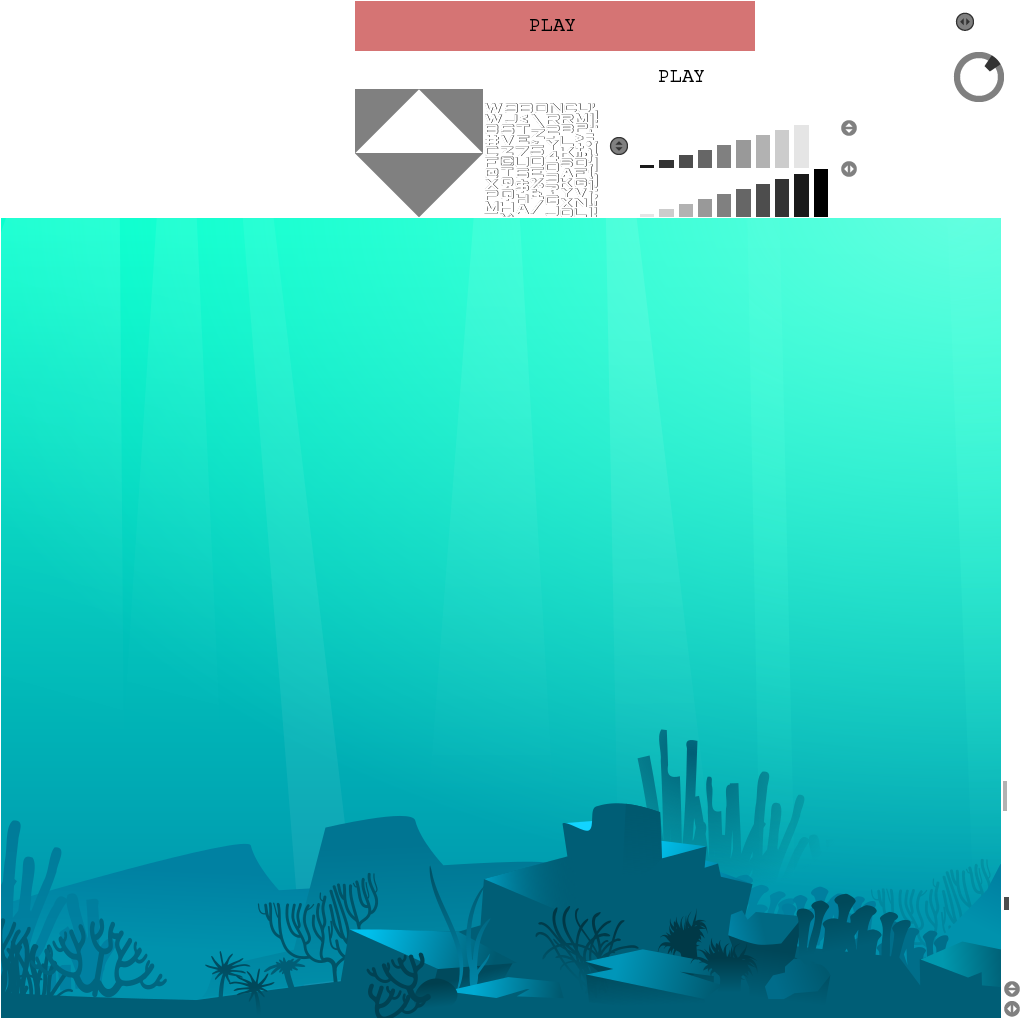
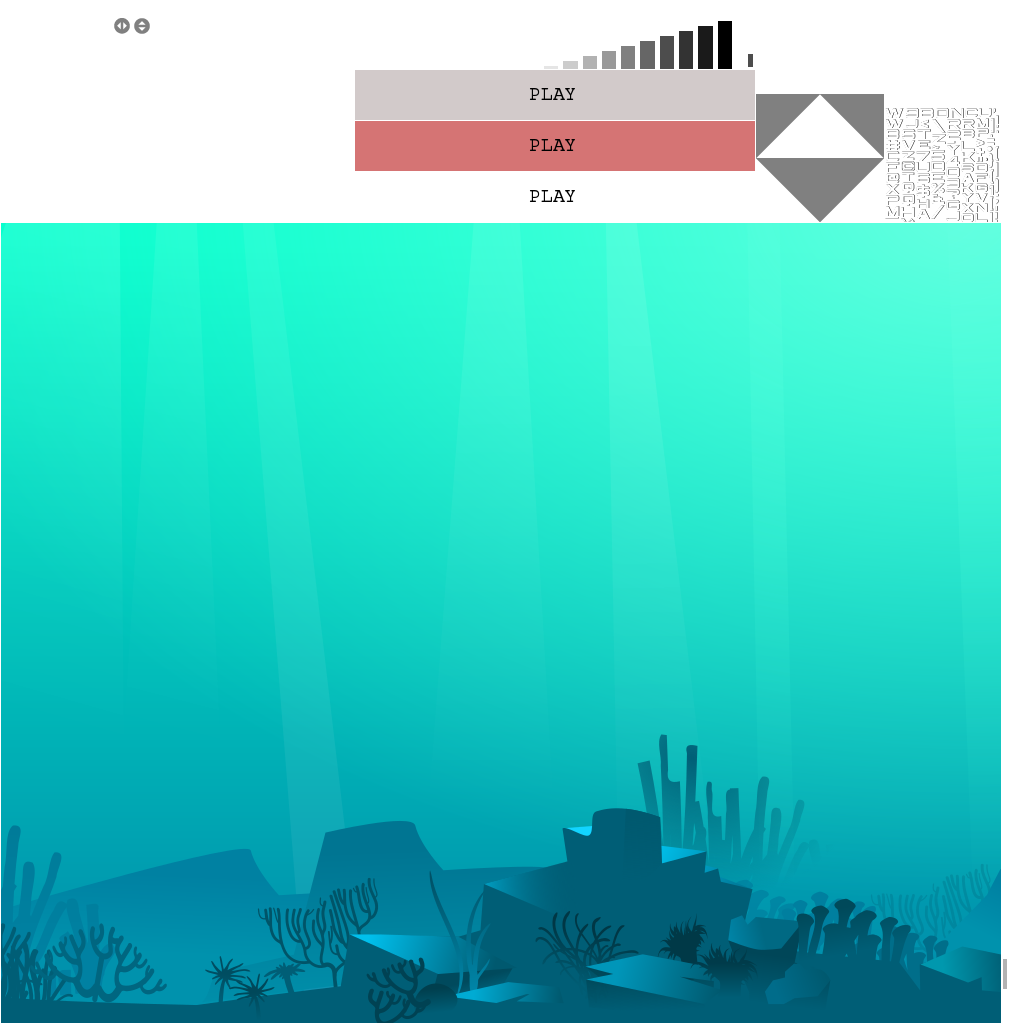
Menu button refactor.

diff --git a/core/src/main/kotlin/com/ownedoutcomes/view/menu.kt b/core/src/main/kotlin/com/ownedoutcomes/view/menu.kt
@@ -5,6 +5,7 @@ import com.badlogic.gdx.graphics.Texture
 import com.badlogic.gdx.graphics.g2d.TextureRegion
 import com.badlogic.gdx.scenes.scene2d.Stage
 import com.badlogic.gdx.scenes.scene2d.utils.TextureRegionDrawable
+import com.badlogic.gdx.utils.Align
 import com.ownedoutcomes.Runner
 import com.ownedoutcomes.logic.GameController
 import ktx.actors.onChange
@@ -12,10 +13,7 @@ import ktx.actors.onClick
 import ktx.assets.getValue
 import ktx.assets.loadOnDemand
 import ktx.inject.inject
-import ktx.scene2d.image
-import ktx.scene2d.table
-import ktx.scene2d.textButton
-import ktx.scene2d.textField
+import ktx.scene2d.*
 
 class Menu(stage: Stage) : AbstractView(stage) {
     val backgroundImage by loadOnDemand<Texture>(path = "menu-background.png")
@@ -25,12 +23,12 @@ class Menu(stage: Stage) : AbstractView(stage) {
         background = TextureRegionDrawable(TextureRegion(backgroundImage, 0, 0, 1000, 750))
         image("title")
         row()
-        textButton(text = "Play!", style = "play-button") {
-            color = Color.PINK
+        button(style = "start") { cell ->
             onChange { event, button ->
                 inject<GameController>().reload()
                 inject<Runner>().setCurrentView(inject<Game>())
             }
+            cell.expandX().pad(100f).align(Align.bottomLeft)
         }
     }
 }

diff --git a/core/src/main/kotlin/com/ownedoutcomes/asset/skin.kt b/core/src/main/kotlin/com/ownedoutcomes/asset/skin.kt
@@ -5,10 +5,7 @@ import com.badlogic.gdx.graphics.Color
 import com.badlogic.gdx.graphics.g2d.BitmapFont
 import com.badlogic.gdx.graphics.g2d.TextureAtlas
 import ktx.assets.loadOnDemand
-import ktx.style.skin
-import ktx.style.textButton
-import ktx.style.textField
-import ktx.style.window
+import ktx.style.*
 
 fun loadSkin() = skin(atlas = loadOnDemand<TextureAtlas>(path = "skin.atlas").asset) {
     val bitmapFont = BitmapFont(Gdx.files.internal("font-export.fnt"), getRegion("font-export"), false)
@@ -34,5 +31,11 @@ fun loadSkin() = skin(atlas = loadOnDemand<TextureAtlas>(path = "skin.atlas").as
         font = bitmapFont
         messageFont = bitmapFont
         fontColor = Color.PINK
+    }
+
+    button("start") {
+        up = getDrawable("start-up")
+        over = getDrawable("start-over")
+        down = getDrawable("start-down")
     }
 }
